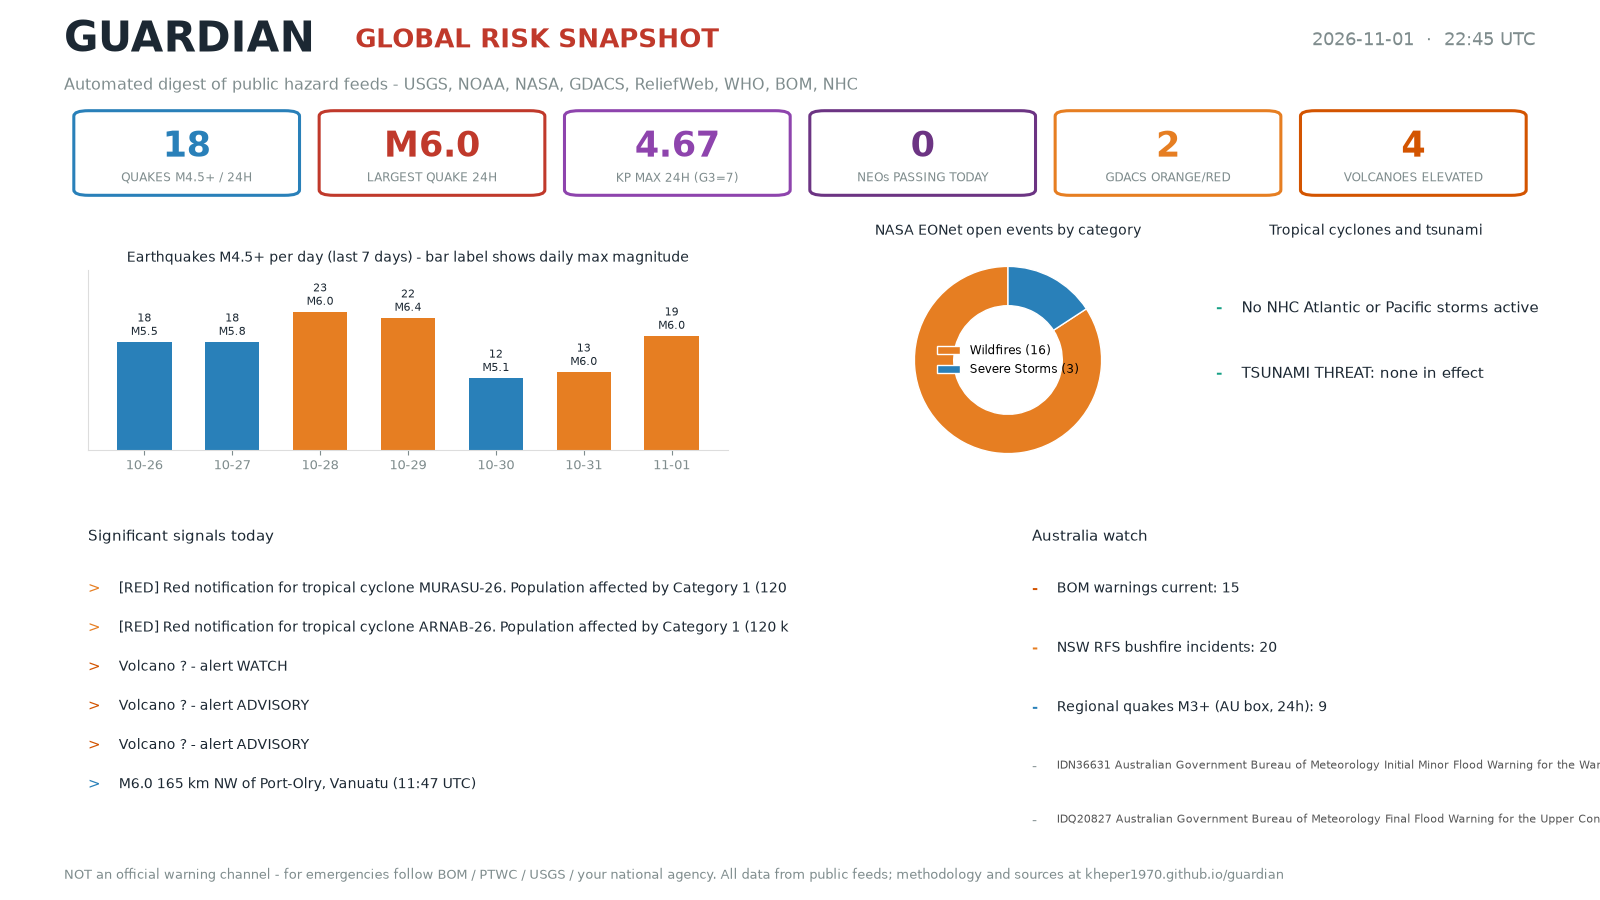
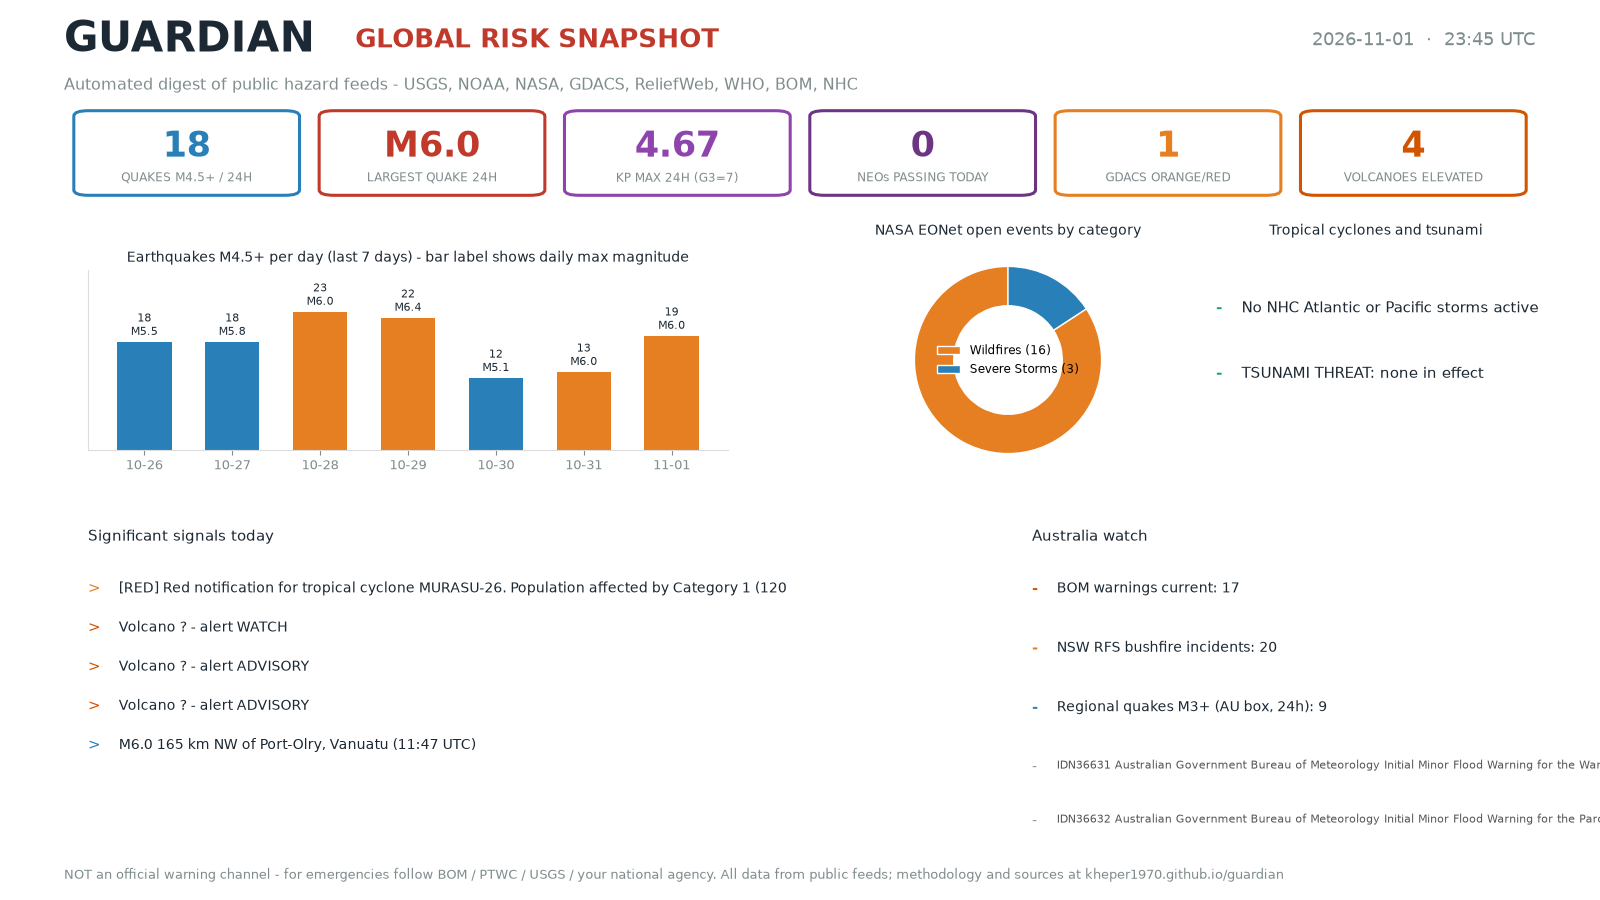
Automated update 2026-11-01T23:50Z

Changed region(s): [[0.0625, 0.6844, 0.5, 0.7467], [0.6562, 0.9022, 1.0, 0.9333], [0.0625, 0.8089, 0.2812, 0.84]]

diff --git a/briefing/briefing_2026-11-01.html b/briefing/briefing_2026-11-01.html
@@ -83,12 +83,12 @@ or your national emergency agency.</p>
 <p>Count: 18
 - M6 165 km NW of Port-Olry, Vanuatu (2026-11-01 11:47 UTC)
 - M5.4 203 km NW of Port-Olry, Vanuatu (2026-11-01 06:26 UTC)
-- M5.2 200 km NW of Port-Olry, Vanuatu (2026-10-31 22:42 UTC)
 - M5.1 South Sandwich Islands region (2026-11-01 17:11 UTC)
 - M5.1 201 km NW of Port-Olry, Vanuatu (2026-11-01 07:00 UTC)
 - M5 Mid-Indian Ridge (2026-11-01 18:34 UTC)
 - M4.8 Mid-Indian Ridge (2026-11-01 18:53 UTC)
 - M4.8 203 km NW of Port-Olry, Vanuatu (2026-11-01 12:08 UTC)
+- M4.8 176 km NW of Port-Olry, Vanuatu (2026-11-01 11:56 UTC)
 - ...and 10 more</p>
 <h2>Space weather</h2>
 <ul>
@@ -102,7 +102,6 @@ or your national emergency agency.</p>
 <h2>GDACS significant alerts (orange/red)</h2>
 <ul>
 <li>[RED] (2026-11-01 02:23 UTC) Red notification for tropical cyclone MURASU-26. Population affected by Category 1 (120 km/h) wind speeds or higher is 1.196 million .</li>
-<li>[RED] (2026-10-26 01:51 UTC) Red notification for tropical cyclone ARNAB-26. Population affected by Category 1 (120 km/h) wind speeds or higher is 4.008 million .</li>
 </ul>
 <h2>Tsunami (NOAA NTWC)</h2>
 <ul>
@@ -169,12 +168,12 @@ or your national emergency agency.</p>
 </ul>
 <h2>Nuclear &amp; radiological watch (Google News: IAEA/incident keywords)</h2>
 <ul>
-<li>IAEA Response and Assistance Network (RANET) Capacity Building Centre’s Workshop on Monitoring during a Nuclear or Radiological Emergency held in Fukushima - Ministry of Foreign Affairs of Japan (Fri, 09 Oct 2026)</li>
-<li>IAEA Helps Latin American and the Caribbean Countries Prepare for Nuclear and Radiological Emergencies Coinciding with Other Crises - International Atomic Energy Agency (Wed, 08 Jul 2026)</li>
 <li>IAEA Convenes National Nuclear Emergency Competent Authorities as Early Notification and Assistance Conventions Mark 40 Years - International Atomic Energy Agency (Mon, 08 Jun 2026)</li>
-<li>UAE trains experts to tackle nuclear emergencies - Gulf News (Thu, 29 Oct 2026)</li>
+<li>IAEA Helps Latin American and the Caribbean Countries Prepare for Nuclear and Radiological Emergencies Coinciding with Other Crises - International Atomic Energy Agency (Wed, 08 Jul 2026)</li>
+<li>IAEA Response and Assistance Network (RANET) Capacity Building Centre’s Workshop on Monitoring during a Nuclear or Radiological Emergency held in Fukushima - Ministry of Foreign Affairs of Japan (Fri, 09 Oct 2026)</li>
 <li>IAEA and Japan Strengthen Emergency Preparedness in Fukushima - International Atomic Energy Agency (Wed, 15 Apr 2026)</li>
 <li>Building a Safer World: 20 Years of the Incident and Emergency Centre | IAEA - International Atomic Energy Agency (Mon, 29 Dec 2025)</li>
+<li>New E-Learning Course Supports First Responders in Radiological Emergencies - International Atomic Energy Agency (Tue, 27 Jan 2026)</li>
 </ul>
 <h2>Food security watch (Google News: famine keywords)</h2>
 <ul>
@@ -182,8 +181,8 @@ or your national emergency agency.</p>
 <li>WFP Palestine Emergency Response External Situation Report #99, 29 October 2026 (Reporting period: 1-15 October 2026) - ReliefWeb (Fri, 30 Oct 2026)</li>
 <li>Flooding and Food Security: The Urgent Need for Research - Inter Press Service (Wed, 28 Oct 2026)</li>
 <li>Food insecurity and child malnutrition worsen in Afghanistan despite strong agricultural season - UN World Food Programme (Thu, 15 Oct 2026)</li>
+<li>Afghanistan faces record hunger levels amid rampant rights violations - UN News (Thu, 15 Oct 2026)</li>
 <li>US, UK among 31 countries warning of 'alarming' Sudan famine - The New Indian Express (Tue, 27 Oct 2026)</li>
-<li>When Getting Food Means Filling Out Forms - NYC Food Policy Center (Tue, 30 Jun 2026)</li>
 </ul>
 <h2>Famine watch (UN News + ReliefWeb keywords)</h2>
 <ul>
@@ -197,11 +196,11 @@ or your national emergency agency.</p>
 </ul>
 <h2>Australia watch (ABC News, NSW RFS, USGS AU quakes, GNews AU, health.gov.au)</h2>
 <ul>
-<li>Aboriginal-owned water testing lab shows 'science can thrive' in regions (Sun, 01 Nov 2026)</li>
+<li>Serial rapist to be released despite 'high risk' to WA community (Sun, 01 Nov 2026)</li>
+<li>Irish 1,500m champion remembered as inspiration after death at 34 (Sun, 01 Nov 2026)</li>
+<li>Matt Canavan enters Capricornia race to set up One Nation showdown (Sun, 01 Nov 2026)</li>
+<li>Australia's first Indigenous-owned water testing lab opens in regional Qld (Sun, 01 Nov 2026)</li>
 <li>Matildas star continues remarkable WSL goalscoring run in huge win (Sun, 01 Nov 2026)</li>
-<li>Nine dead as business jet crashes into Florida roadside (Sun, 01 Nov 2026)</li>
-<li>October keeps WA guessing with warm temperatures, showers and even hail (Sun, 01 Nov 2026)</li>
-<li>Eight dead on Victorian roads over Melbourne Cup weekend (Sun, 01 Nov 2026)</li>
 <li>NSW RFS current incidents: 20 (0 at Warning level)</li>
 <li>AU-region quakes (24h): 9, max M4.8</li>
 <li>M3.5 9 km NE of Korumburra, Australia</li>
@@ -209,14 +208,14 @@ or your national emergency agency.</p>
 <li>M4.8 41 km WNW of Kupang, Indonesia</li>
 <li>AU emergency headlines:</li>
 <li>Three days of supplies? How prepared are Australians for the next disaster? - SBS (Sat, 31 Oct 2026)</li>
+<li>More storms looming for SEQ as 'extreme' heatwave hits Gulf country - ABC News &amp; Headlines – Australian Broadcasting Corporation (Sun, 01 Nov 2026)</li>
 <li>Australia’s aerial firefighting fleet gets $150m boost ahead of supercharged El Niño - News24 (Sun, 01 Nov 2026)</li>
 <li>Major risk to Australia's essential services as stockpiling advice grows overseas: 'Paralyse the country' - Yahoo News Australia (Sat, 31 Oct 2026)</li>
 <li>Shoppers told to consider using David Jones gift cards as iconic chain fights for future - Nine.com.au (Sun, 01 Nov 2026)</li>
-<li>Woman arrested over fire that shut down Perth Airport and threatened homes - SMH.com.au (Sat, 31 Oct 2026)</li>
 <li>India-Australia defence ties: Advancing a vital Indo-Pacific partnership - Lowy Institute (Sun, 01 Nov 2026)</li>
 <li>Interoperability needs logistics: the next phase of US Marine rotations to Australia - The Strategist | ASPI's analysis and commentary site (Sun, 01 Nov 2026)</li>
-<li>Jacinda Ardern in Sydney Opera House talk advises politicians to ‘rebuild trust by building financial security’ - The Guardian (Sun, 01 Nov 2026)</li>
-<li>Linda Dawson: AUKUS demands new ‘security mindset’ - The Mandarin (Sun, 01 Nov 2026)</li>
+<li>‘We’re making it worse’: Jacinda Ardern’s warning for Australian politicians - The Guardian (Sun, 01 Nov 2026)</li>
+<li>Corporate Ladder: Your weekly guide to executive appointments in South Australia - InDaily South Australia (Sun, 01 Nov 2026)</li>
 <li>health.gov.au:</li>
 <li>Interim Commissioner Update – October 2026</li>
 <li>Hearing Services Program provider notice 2026-12 – Provider Webinar Link</li>
@@ -226,12 +225,12 @@ or your national emergency agency.</p>
 </ul>
 <h2>BOM warnings (Bureau of Meteorology Australia)</h2>
 <ul>
-<li>Products scanned: 15, high: 0, medium: 12, errors: 0</li>
+<li>Products scanned: 16, high: 0, medium: 12, errors: 0</li>
 <li>MED [IDN36631] Initial Minor Flood Warning for the Warrego River (NSW)</li>
 <li>MED [IDQ20827] Final Flood Warning for the Upper Condamine River</li>
 <li>MED [IDQ20829] Moderate Flood Warning for the Lower Condamine River</li>
 <li>MED [IDQ20835] Final Flood Warning for the Weir River</li>
-<li>MED [IDQ20840] Minor Flood Warning for the Moonie River</li>
+<li>MED [IDQ20840] Minor Flood Warning for the Lower Moonie River</li>
 <li>MED [IDQ20845] Moderate Flood Warning for the Warrego River (QLD)</li>
 <li>MED [IDQ20850] Minor Flood Warning for the Paroo River (QLD)</li>
 <li>MED [IDQ20855] Moderate Flood Warning for the Bulloo River</li>
@@ -263,7 +262,8 @@ or your national emergency agency.</p>
 <strong>VOLCANO ORANGE: Great Sitkin (avo)</strong>
 <strong>VOLCANO-NEW Krakatau (Indonesia): new eruptive activity (GVP weekly)</strong>
 <strong>VOLCANO-NEW Nevados de Chillán (Chile): new eruptive activity (GVP weekly)</strong>
-<strong>VOLCANO-NEW Whakaari/White Island (New Zealand): new eruptive activity (GVP weekly)</strong></p>
+<strong>VOLCANO-NEW Whakaari/White Island (New Zealand): new eruptive activity (GVP weekly)</strong>
+<strong>AU EMERGENCY KEYWORD HIT: More storms looming for SEQ as 'extreme' heatwave hits Gulf country - ABC News &amp; Headlines – Australian Broadcasting Corporation</strong></p>
 </div></main>
 <footer><div class="wrap">
 Generated automatically by the Guardian pipeline (<a href="https://github.com/kheper1970/guardian">open source on GitHub</a>).

diff --git a/index.html b/index.html
@@ -96,8 +96,8 @@ The setting is reviewed annually (each January) by its Science and Security Boar
 <a href="https://thebulletin.org/doomsday-clock/">thebulletin.org</a>.
 Clock artwork © Bulletin of the Atomic Scientists; used with attribution.</p>
 </div></div></div>
-<div class="statgrid"><div class="stat"><div class="n">18</div><div class="l">quakes M4.5+ / 24h</div></div><div class="stat"><div class="n">M6.0</div><div class="l">largest quake</div></div><div class="stat"><div class="n">4.67</div><div class="l">Kp max 24h</div></div><div class="stat"><div class="n">0</div><div class="l">NEOs today</div></div><div class="stat"><div class="n">2</div><div class="l">GDACS orange/red</div></div><div class="stat"><div class="n">4</div><div class="l">volcanoes elevated</div></div></div>
-<p style="color:#666666;font-size:.9rem">Snapshot taken 2026-11-01T22:45:01.352034+00:00 UTC.
+<div class="statgrid"><div class="stat"><div class="n">18</div><div class="l">quakes M4.5+ / 24h</div></div><div class="stat"><div class="n">M6.0</div><div class="l">largest quake</div></div><div class="stat"><div class="n">4.67</div><div class="l">Kp max 24h</div></div><div class="stat"><div class="n">0</div><div class="l">NEOs today</div></div><div class="stat"><div class="n">1</div><div class="l">GDACS orange/red</div></div><div class="stat"><div class="n">4</div><div class="l">volcanoes elevated</div></div></div>
+<p style="color:#666666;font-size:.9rem">Snapshot taken 2026-11-01T23:45:01.863531+00:00 UTC.
 Open the <a href="briefing/briefing_2026-11-01.html">full briefing</a> for details and sources.</p>
 </div>
 <div class="card"><h2 style="margin-top:0">Daily infographic</h2>

diff --git a/briefing/briefing_2026-11-01.md b/briefing/briefing_2026-11-01.md
@@ -6,12 +6,12 @@ Generated automatically from public feeds (USGS, NOAA, NASA, WHO, GDACS, ReliefW
 Count: 18
 - M6 165 km NW of Port-Olry, Vanuatu (2026-11-01 11:47 UTC)
 - M5.4 203 km NW of Port-Olry, Vanuatu (2026-11-01 06:26 UTC)
-- M5.2 200 km NW of Port-Olry, Vanuatu (2026-10-31 22:42 UTC)
 - M5.1 South Sandwich Islands region (2026-11-01 17:11 UTC)
 - M5.1 201 km NW of Port-Olry, Vanuatu (2026-11-01 07:00 UTC)
 - M5 Mid-Indian Ridge (2026-11-01 18:34 UTC)
 - M4.8 Mid-Indian Ridge (2026-11-01 18:53 UTC)
 - M4.8 203 km NW of Port-Olry, Vanuatu (2026-11-01 12:08 UTC)
+- M4.8 176 km NW of Port-Olry, Vanuatu (2026-11-01 11:56 UTC)
 - ...and 10 more
 
 ## Space weather
@@ -25,7 +25,6 @@ Count: 0
 
 ## GDACS significant alerts (orange/red)
 - [RED] (2026-11-01 02:23 UTC) Red notification for tropical cyclone MURASU-26. Population affected by Category 1 (120 km/h) wind speeds or higher is 1.196 million .
-- [RED] (2026-10-26 01:51 UTC) Red notification for tropical cyclone ARNAB-26. Population affected by Category 1 (120 km/h) wind speeds or higher is 4.008 million .
 
 
 ## Tsunami (NOAA NTWC)
@@ -87,20 +86,20 @@ Count: 0
 - No active NHC-tracked storms.
 
 ## Nuclear & radiological watch (Google News: IAEA/incident keywords)
-- IAEA Response and Assistance Network (RANET) Capacity Building Centre’s Workshop on Monitoring during a Nuclear or Radiological Emergency held in Fukushima - Ministry of Foreign Affairs of Japan (Fri, 09 Oct 2026)
-- IAEA Helps Latin American and the Caribbean Countries Prepare for Nuclear and Radiological Emergencies Coinciding with Other Crises - International Atomic Energy Agency (Wed, 08 Jul 2026)
 - IAEA Convenes National Nuclear Emergency Competent Authorities as Early Notification and Assistance Conventions Mark 40 Years - International Atomic Energy Agency (Mon, 08 Jun 2026)
-- UAE trains experts to tackle nuclear emergencies - Gulf News (Thu, 29 Oct 2026)
+- IAEA Helps Latin American and the Caribbean Countries Prepare for Nuclear and Radiological Emergencies Coinciding with Other Crises - International Atomic Energy Agency (Wed, 08 Jul 2026)
+- IAEA Response and Assistance Network (RANET) Capacity Building Centre’s Workshop on Monitoring during a Nuclear or Radiological Emergency held in Fukushima - Ministry of Foreign Affairs of Japan (Fri, 09 Oct 2026)
 - IAEA and Japan Strengthen Emergency Preparedness in Fukushima - International Atomic Energy Agency (Wed, 15 Apr 2026)
 - Building a Safer World: 20 Years of the Incident and Emergency Centre | IAEA - International Atomic Energy Agency (Mon, 29 Dec 2025)
+- New E-Learning Course Supports First Responders in Radiological Emergencies - International Atomic Energy Agency (Tue, 27 Jan 2026)
 
 ## Food security watch (Google News: famine keywords)
 - Heat, Food Insecurity, Disease Make Climate a Global Health Emergency: Lancet Countdown - The Energy Mix (Wed, 28 Oct 2026)
 - WFP Palestine Emergency Response External Situation Report #99, 29 October 2026 (Reporting period: 1-15 October 2026) - ReliefWeb (Fri, 30 Oct 2026)
 - Flooding and Food Security: The Urgent Need for Research - Inter Press Service (Wed, 28 Oct 2026)
 - Food insecurity and child malnutrition worsen in Afghanistan despite strong agricultural season - UN World Food Programme (Thu, 15 Oct 2026)
+- Afghanistan faces record hunger levels amid rampant rights violations - UN News (Thu, 15 Oct 2026)
 - US, UK among 31 countries warning of 'alarming' Sudan famine - The New Indian Express (Tue, 27 Oct 2026)
-- When Getting Food Means Filling Out Forms - NYC Food Policy Center (Tue, 30 Jun 2026)
 
 ## Famine watch (UN News + ReliefWeb keywords)
 - [ReliefWeb] South Sudan Humanitarian Update (as of 30 October 2026) (Sat, 31 Oct 2026)
@@ -111,11 +110,11 @@ Count: 0
 - no armed-conflict keyword items in feeds
 
 ## Australia watch (ABC News, NSW RFS, USGS AU quakes, GNews AU, health.gov.au)
-- Aboriginal-owned water testing lab shows 'science can thrive' in regions (Sun, 01 Nov 2026)
+- Serial rapist to be released despite 'high risk' to WA community (Sun, 01 Nov 2026)
+- Irish 1,500m champion remembered as inspiration after death at 34 (Sun, 01 Nov 2026)
+- Matt Canavan enters Capricornia race to set up One Nation showdown (Sun, 01 Nov 2026)
+- Australia's first Indigenous-owned water testing lab opens in regional Qld (Sun, 01 Nov 2026)
 - Matildas star continues remarkable WSL goalscoring run in huge win (Sun, 01 Nov 2026)
-- Nine dead as business jet crashes into Florida roadside (Sun, 01 Nov 2026)
-- October keeps WA guessing with warm temperatures, showers and even hail (Sun, 01 Nov 2026)
-- Eight dead on Victorian roads over Melbourne Cup weekend (Sun, 01 Nov 2026)
 - NSW RFS current incidents: 20 (0 at Warning level)
 - AU-region quakes (24h): 9, max M4.8
   - M3.5 9 km NE of Korumburra, Australia
@@ -123,14 +122,14 @@ Count: 0
   - M4.8 41 km WNW of Kupang, Indonesia
 - AU emergency headlines:
   - Three days of supplies? How prepared are Australians for the next disaster? - SBS (Sat, 31 Oct 2026)
+  - More storms looming for SEQ as 'extreme' heatwave hits Gulf country - ABC News &amp; Headlines – Australian Broadcasting Corporation (Sun, 01 Nov 2026)
   - Australia’s aerial firefighting fleet gets $150m boost ahead of supercharged El Niño - News24 (Sun, 01 Nov 2026)
   - Major risk to Australia's essential services as stockpiling advice grows overseas: 'Paralyse the country' - Yahoo News Australia (Sat, 31 Oct 2026)
   - Shoppers told to consider using David Jones gift cards as iconic chain fights for future - Nine.com.au (Sun, 01 Nov 2026)
-  - Woman arrested over fire that shut down Perth Airport and threatened homes - SMH.com.au (Sat, 31 Oct 2026)
   - India-Australia defence ties: Advancing a vital Indo-Pacific partnership - Lowy Institute (Sun, 01 Nov 2026)
   - Interoperability needs logistics: the next phase of US Marine rotations to Australia - The Strategist | ASPI's analysis and commentary site (Sun, 01 Nov 2026)
-  - Jacinda Ardern in Sydney Opera House talk advises politicians to ‘rebuild trust by building financial security’ - The Guardian (Sun, 01 Nov 2026)
-  - Linda Dawson: AUKUS demands new ‘security mindset’ - The Mandarin (Sun, 01 Nov 2026)
+  - ‘We’re making it worse’: Jacinda Ardern’s warning for Australian politicians - The Guardian (Sun, 01 Nov 2026)
+  - Corporate Ladder: Your weekly guide to executive appointments in South Australia - InDaily South Australia (Sun, 01 Nov 2026)
 - health.gov.au:
   - Interim Commissioner Update – October 2026
   - Hearing Services Program provider notice 2026-12 – Provider Webinar Link
@@ -139,12 +138,12 @@ Count: 0
   - 2025 Residents’ Experience Survey results are in
 
 ## BOM warnings (Bureau of Meteorology Australia)
-- Products scanned: 15, high: 0, medium: 12, errors: 0
+- Products scanned: 16, high: 0, medium: 12, errors: 0
   - MED [IDN36631] Initial Minor Flood Warning for the Warrego River (NSW)
   - MED [IDQ20827] Final Flood Warning for the Upper Condamine River
   - MED [IDQ20829] Moderate Flood Warning for the Lower Condamine River
   - MED [IDQ20835] Final Flood Warning for the Weir River
-  - MED [IDQ20840] Minor Flood Warning for the Moonie River
+  - MED [IDQ20840] Minor Flood Warning for the Lower Moonie River
   - MED [IDQ20845] Moderate Flood Warning for the Warrego River (QLD)
   - MED [IDQ20850] Minor Flood Warning for the Paroo River (QLD)
   - MED [IDQ20855] Moderate Flood Warning for the Bulloo River
@@ -175,3 +174,4 @@ Count: 0
 **VOLCANO-NEW Krakatau (Indonesia): new eruptive activity (GVP weekly)**
 **VOLCANO-NEW Nevados de Chillán (Chile): new eruptive activity (GVP weekly)**
 **VOLCANO-NEW Whakaari/White Island (New Zealand): new eruptive activity (GVP weekly)**
+**AU EMERGENCY KEYWORD HIT: More storms looming for SEQ as 'extreme' heatwave hits Gulf country - ABC News &amp; Headlines – Australian Broadcasting Corporation**
